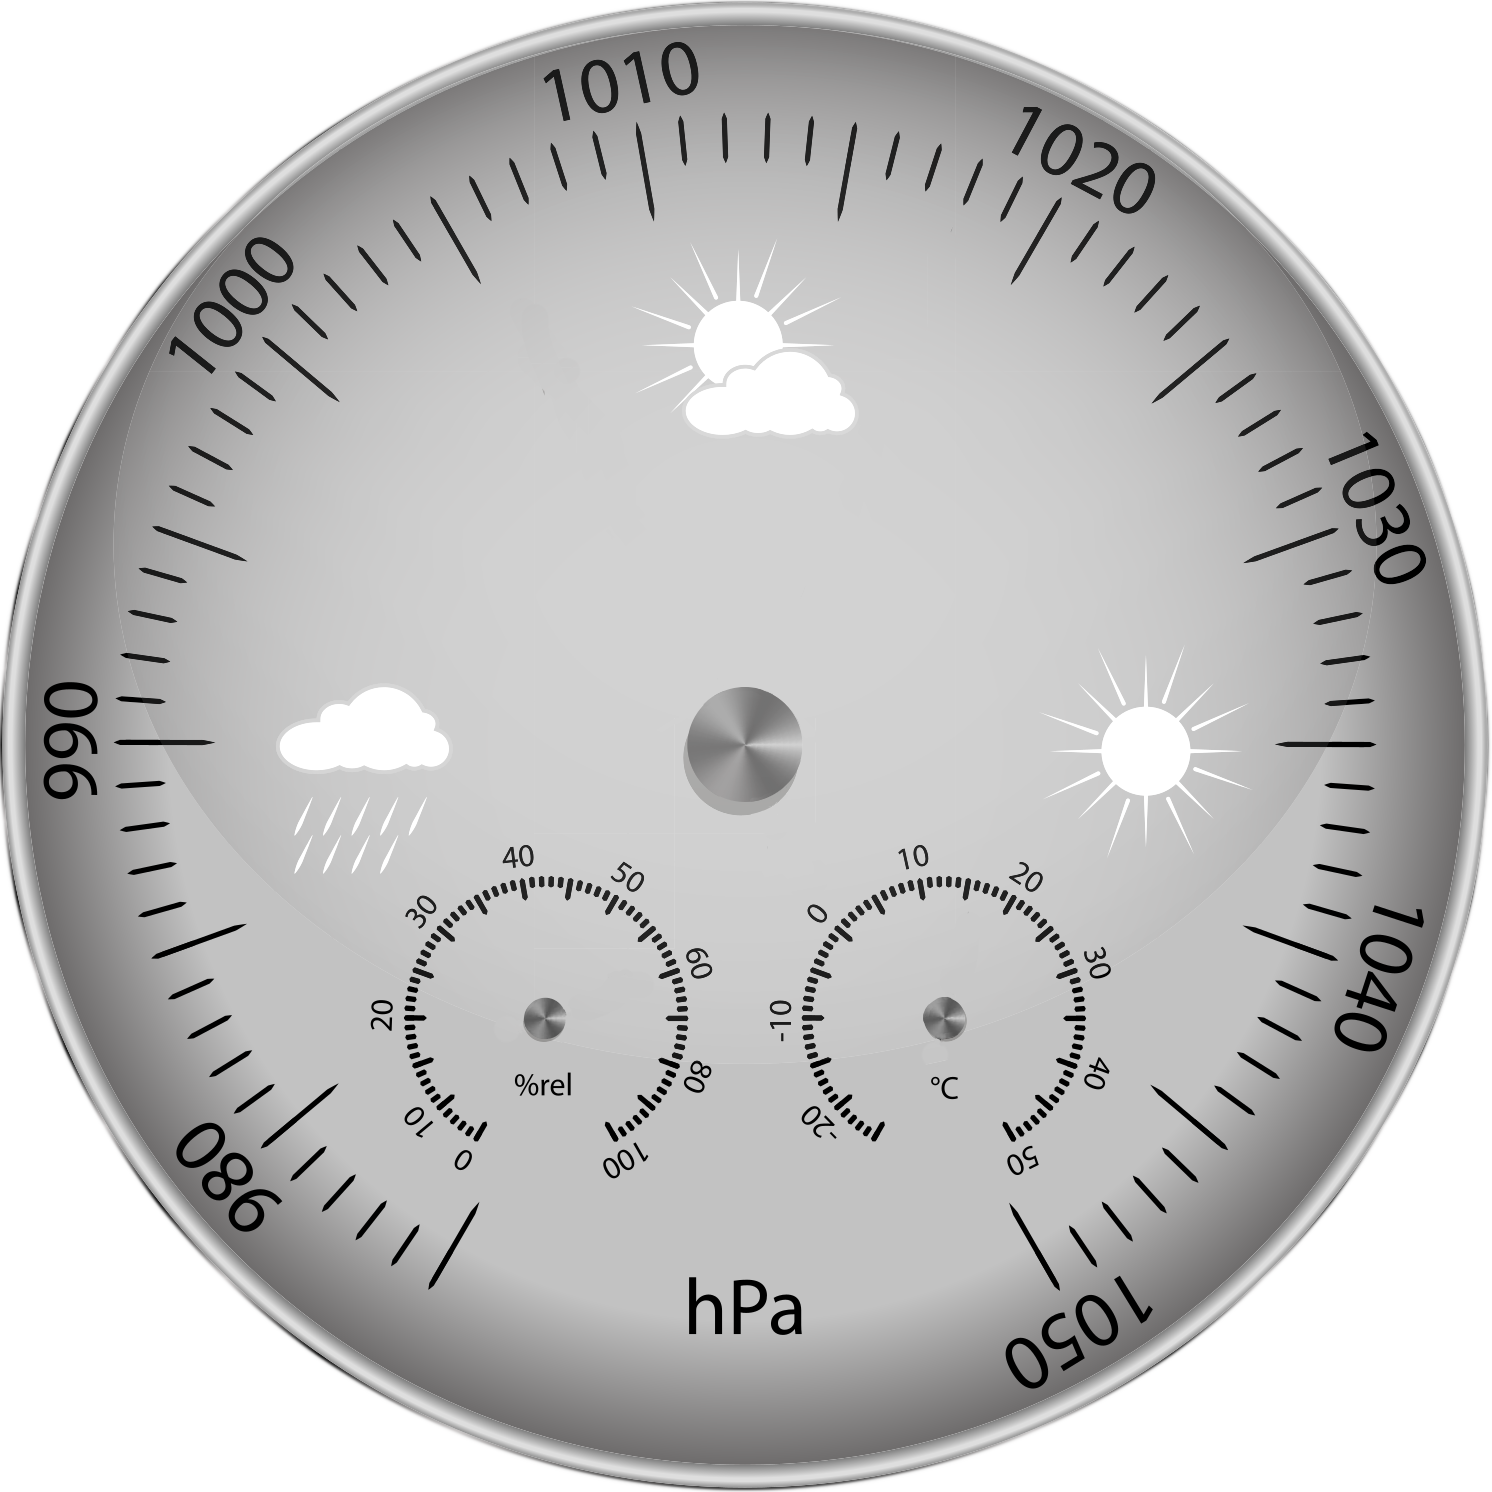
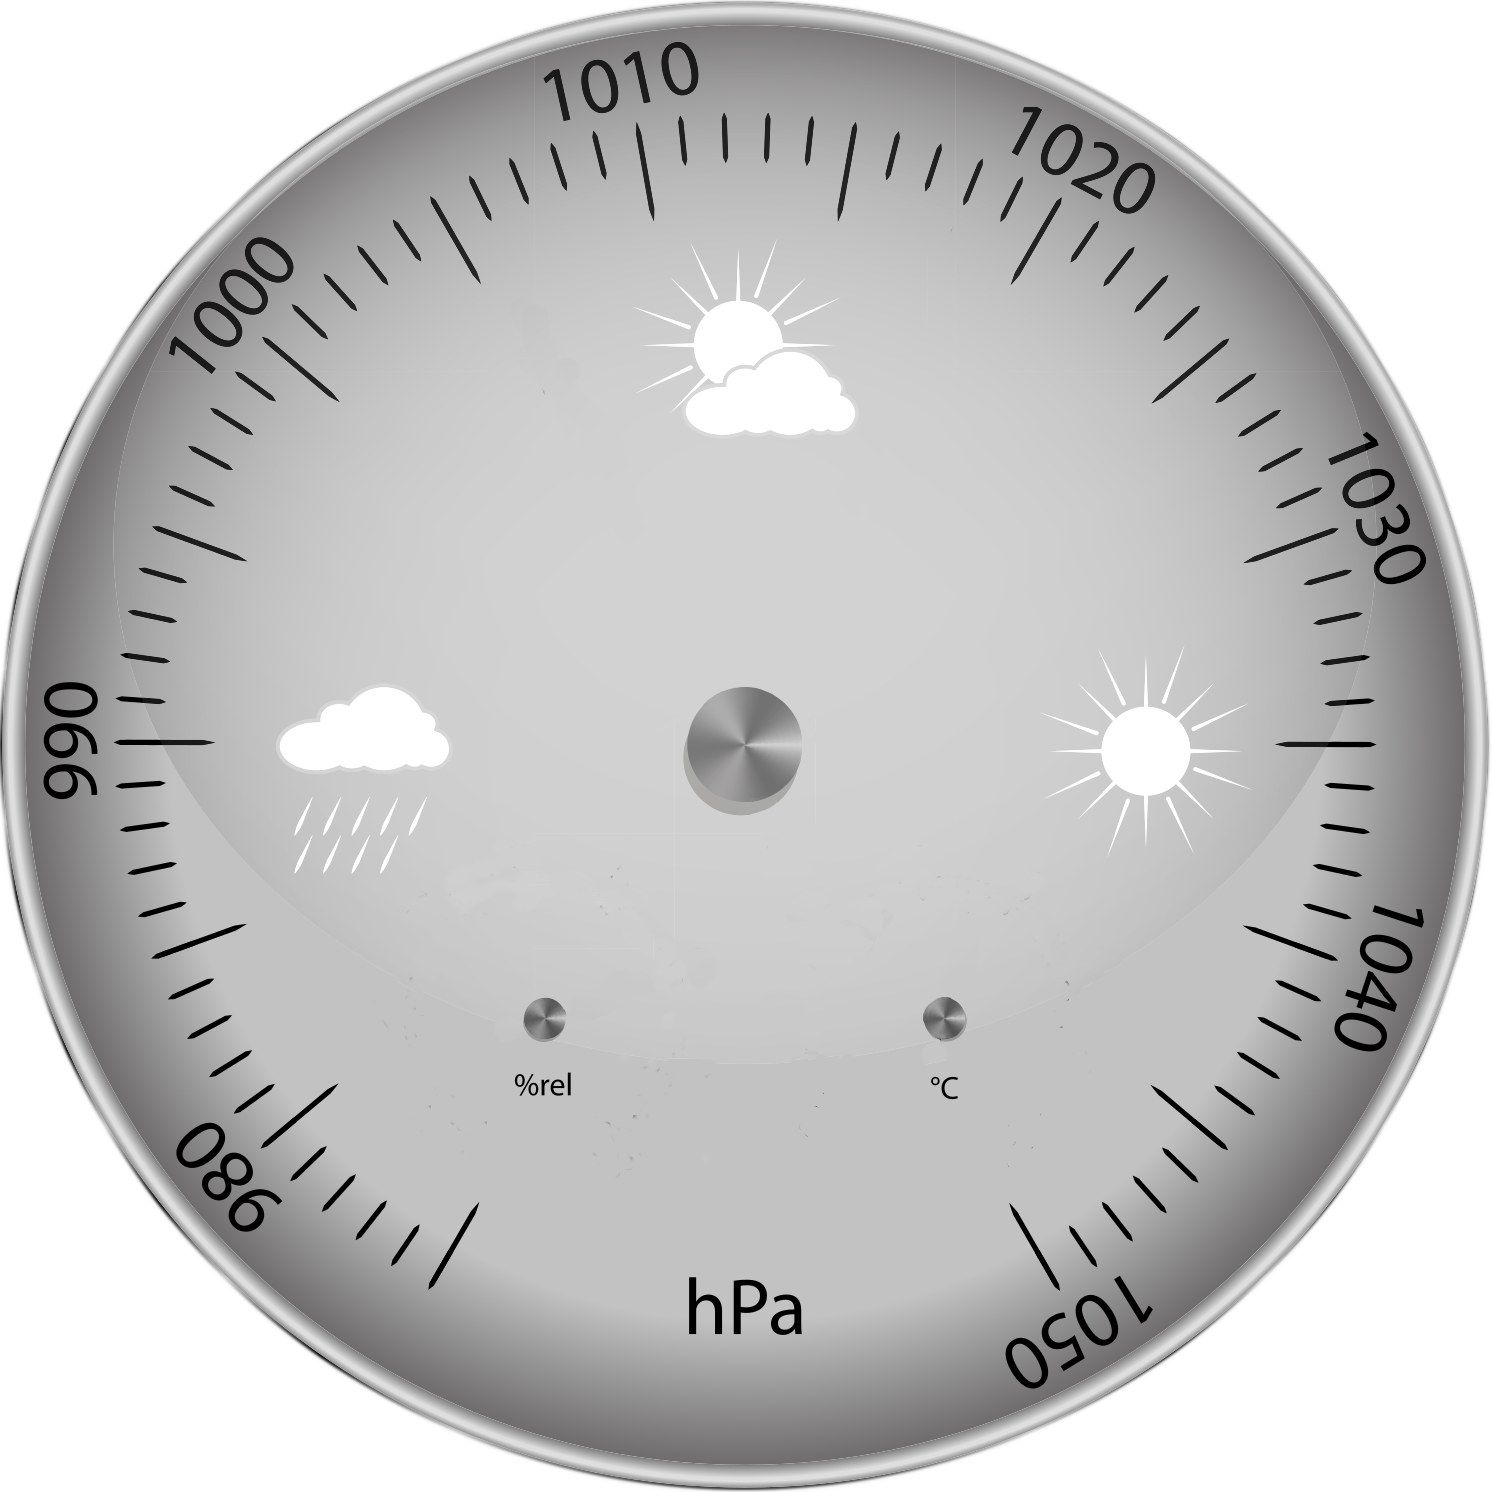
baro update

diff --git a/js/bar.js b/js/bar.js
@@ -6,12 +6,12 @@ $(function () {
                 //plotBackgroundImage: 'images/baro.png',
                 plotBorderWidth: 0,
                 plotShadow: false,
-            height: 500,
-            width:500,
-            spacingTop: 15,
-            spacingRight: 15,
-            spacingBottom: 15,
-            spacingLeft: 15,
+                height: 500,
+                width: 500,
+                spacingTop: 15,
+                spacingRight: 15,
+                spacingBottom: 15,
+                spacingLeft: 15,
             },
 
             title: null,
@@ -19,35 +19,38 @@ $(function () {
                 enabled: false
             },
 
-            pane: {
+            pane: [{
+                startAngle: -150,
+                endAngle: 170,
+                background: null
+            },
+            {
+                size: '15%',
+                center: ['36.5%', '68%'],
                 startAngle: -150,
                 endAngle: 150,
                 background: null
-            },
-            plotOptions: {
-                gauge: {
-                    pivot: {
-                        radius: 18,
-                        borderWidth: 1,
-                        borderColor: 'gray',
-                        backgroundColor: {
-                            linearGradient: { x1: 0, y1: 0, x2: 1, y2: 1 },
-                            stops: [
-                                [0, 'white'],
-                                [1, 'gray']
-                            ]
-                        }
-                    }
-                }
-            },
+            }, {
+                size: '15%',
+                center: ['63.3%', '68.5%'],
+                startAngle: -150,
+                endAngle: 150,
+                background: null
+            }
+            ],
             
+
             // the value axis
             yAxis: [
                 {
+                    labels: {
+                        enabled: false,
+                        distance: 15
+                    },
                     title: {
                         text: '',
                     },
-                    min: 950,
+                    min: 975,
                     max: 1055,
                     lineColor: '#fff',
                     lineWidth: 0,
@@ -62,19 +65,66 @@ $(function () {
                     minorTickLength: 0,
                     minorTickPosition: 'outside',
                     minorTickColor: '#666',
-                }
-                
+                    pane: 0
+                },
+                {
+                    labels: {
+                        enabled: true,
+                        distance: 15
+                    },
+                    title: {
+                        text: '',
+                    },
+                    lineColor: '#000',
+                    min: 0,
+                    max: 100,
+                    lineWidth:0,
+                    minorTickWidth: 1,
+                    minorTickLength: 3,
+                    minorTickInterval: 5,
+                    tickWidth: 2,
+                    tickLength: 5,
+                    tickInterval: 10,
+                    minorTickPosition: 'outside',
+                    minorTickColor: '#000',
+                    tickPosition: 'outside',
+                    tickColor: '#000',
+                    pane: 1
+                  }, {
+                    labels: {
+                        enabled: true,
+                        distance: 15
+                    },
+                    title: {
+                        text: '',
+                    },
+                    min: -10,
+                    max: 30,
+                    lineWidth:0,
+                    minorTickWidth: 1,
+                    minorTickLength: 3,
+                    minorTickInterval: 5,
+                    tickWidth: 2,
+                    tickLength: 5,
+                    tickInterval: 10,
+                    minorTickPosition: 'outside',
+                    minorTickColor: '#000',
+                    tickPosition: 'outside',
+                    tickColor: '#000',
+                    pane: 2
+                  }
+
             ],
 
             series: [
-                
+
                 {
                     name: 'Barometer',
                     dataLabels: {
                         enabled: false
-                   },
+                    },
                     yAxis: 0,
-                    data: [950],
+                    data: [1050],
                     dial: {
                         radius: '85%',
                         baseWidth: 5,
@@ -88,55 +138,105 @@ $(function () {
                         valueSuffix: 'hpa',
                     },
                 },
-                
+                {
+                    animation: false,
+                    dataLabels: {
+                        enabled: false
+                    },
+                    yAxis: 1,
+                    data: [0]
+                  }, {
+                    animation: false,
+                    dataLabels: {
+                        enabled: false
+                    },
+                    yAxis: 2,
+                    data: [-25]
+                  }
+
             ],
         },
-        
+
         // Add some life
         function (chart) {
             if (!chart.renderer.forExport) {
                 //var diffW = chart.chartWidth - chart.plotWidth;
                 //var diffH = chart.chartHeight - chart.plotHeight;
-                
-               var img = new Image();   // Create new img element
-                img.onload = function(){
+
+                var img = new Image();   // Create new img element
+                img.onload = function () {
                     console.log('loading image');
-                chart.renderer.image('images/newbaro.png', chart.plotLeft, chart.plotTop, chart.plotWidth, chart.plotHeight)
-            .add();
+                    chart.renderer.image('images/newbaro.png', chart.plotLeft, chart.plotTop, chart.plotWidth, chart.plotHeight)
+                        .add();
                 }
                 img.src = 'images/newbaro.png'; // Set source path
                 setInterval(function () {
                     //var point = chart.series[0].points[0];
                     //var newVal;
                     //var inc = Math.round((Math.random() - 0.5) * 60);
-                   // newVal = point.y + inc;
-                   // if (newVal < 950 || newVal > 1050) {
-                   //     newVal = point.y - inc;
-                   // }
-                   var url = 'https://weathernode.tregrillfarmcottages.co.uk/pressure/current';
-                   fetch(url, {
-                       credentials: "include",
-                       credentials: 'same-origin'
-                   })
+                    // newVal = point.y + inc;
+                    // if (newVal < 950 || newVal > 1050) {
+                    //     newVal = point.y - inc;
+                    // }
+                    Promise.all([
+                        fetch('https://weathernode.tregrillfarmcottages.co.uk/pressure/current',{
+                            credentials: "include",
+                            credentials: 'same-origin'
+                        }),
 
-                       .then(function (resp) { return resp.json() })
-                       .then(function (data) {
+                        fetch('https://weathernode.tregrillfarmcottages.co.uk/temp/current',{
+                            credentials: "include",
+                            credentials: 'same-origin'
+                        }),
+                        
+                        fetch('https://weathernode.tregrillfarmcottages.co.uk/humidity/current', {
+                            credentials: "include",
+                            credentials: 'same-origin'
+                        })
+                    ]).then(function (responses) {
+                        // Get a JSON object from each of the responses
+                        return Promise.all(responses.map(function (response) {
+                            return response.json();
+                        }));
+                    })
+                        .then(function (data) {
+                            console.log(data);
 
-                           var speed = data.map(function (e) {
-                               return e.pressureHpa;
-                           })
-                           var speed_point = chart.series[0].points[0];
-                           var speedVal;
-                           speedVal = speed;
-                           console.log(speedVal);
-                           speed_point.update(speedVal);
-                           return chart;
+                            var speed = data[0].map(function (e) {
+                                return e.pressureHpa;
+                            })
+                            var speed_point = chart.series[0].points[0];
+                            var speedVal;
+                            speedVal = speed;
+                            console.log(speedVal);
+                            speed_point.update(speedVal);
+
+                            var temp = data[1].map(function (e) {
+                                return  e.temperatureInC;
+                            })
+                            var temp_point = chart.series[2].points[0];
+                            var tempVal;
+                            tempVal = temp;
+                            console.log(tempVal);
+                            temp_point.update(tempVal);
+
+                            var hum = data[2].map(function (e) {
+                                return  e.humidityPercentage;
+                            })
+                            var hum_point = chart.series[1].points[0];
+                            var humVal;
+                            humVal = hum;
+                            console.log(humVal);
+                            hum_point.update(humVal);
+
+
+                            return chart;
                         })
                     //console.log(newVal);
                     //point.update(newVal);
                 }, 7000);
             }
         }
-        
+
     );
 });
